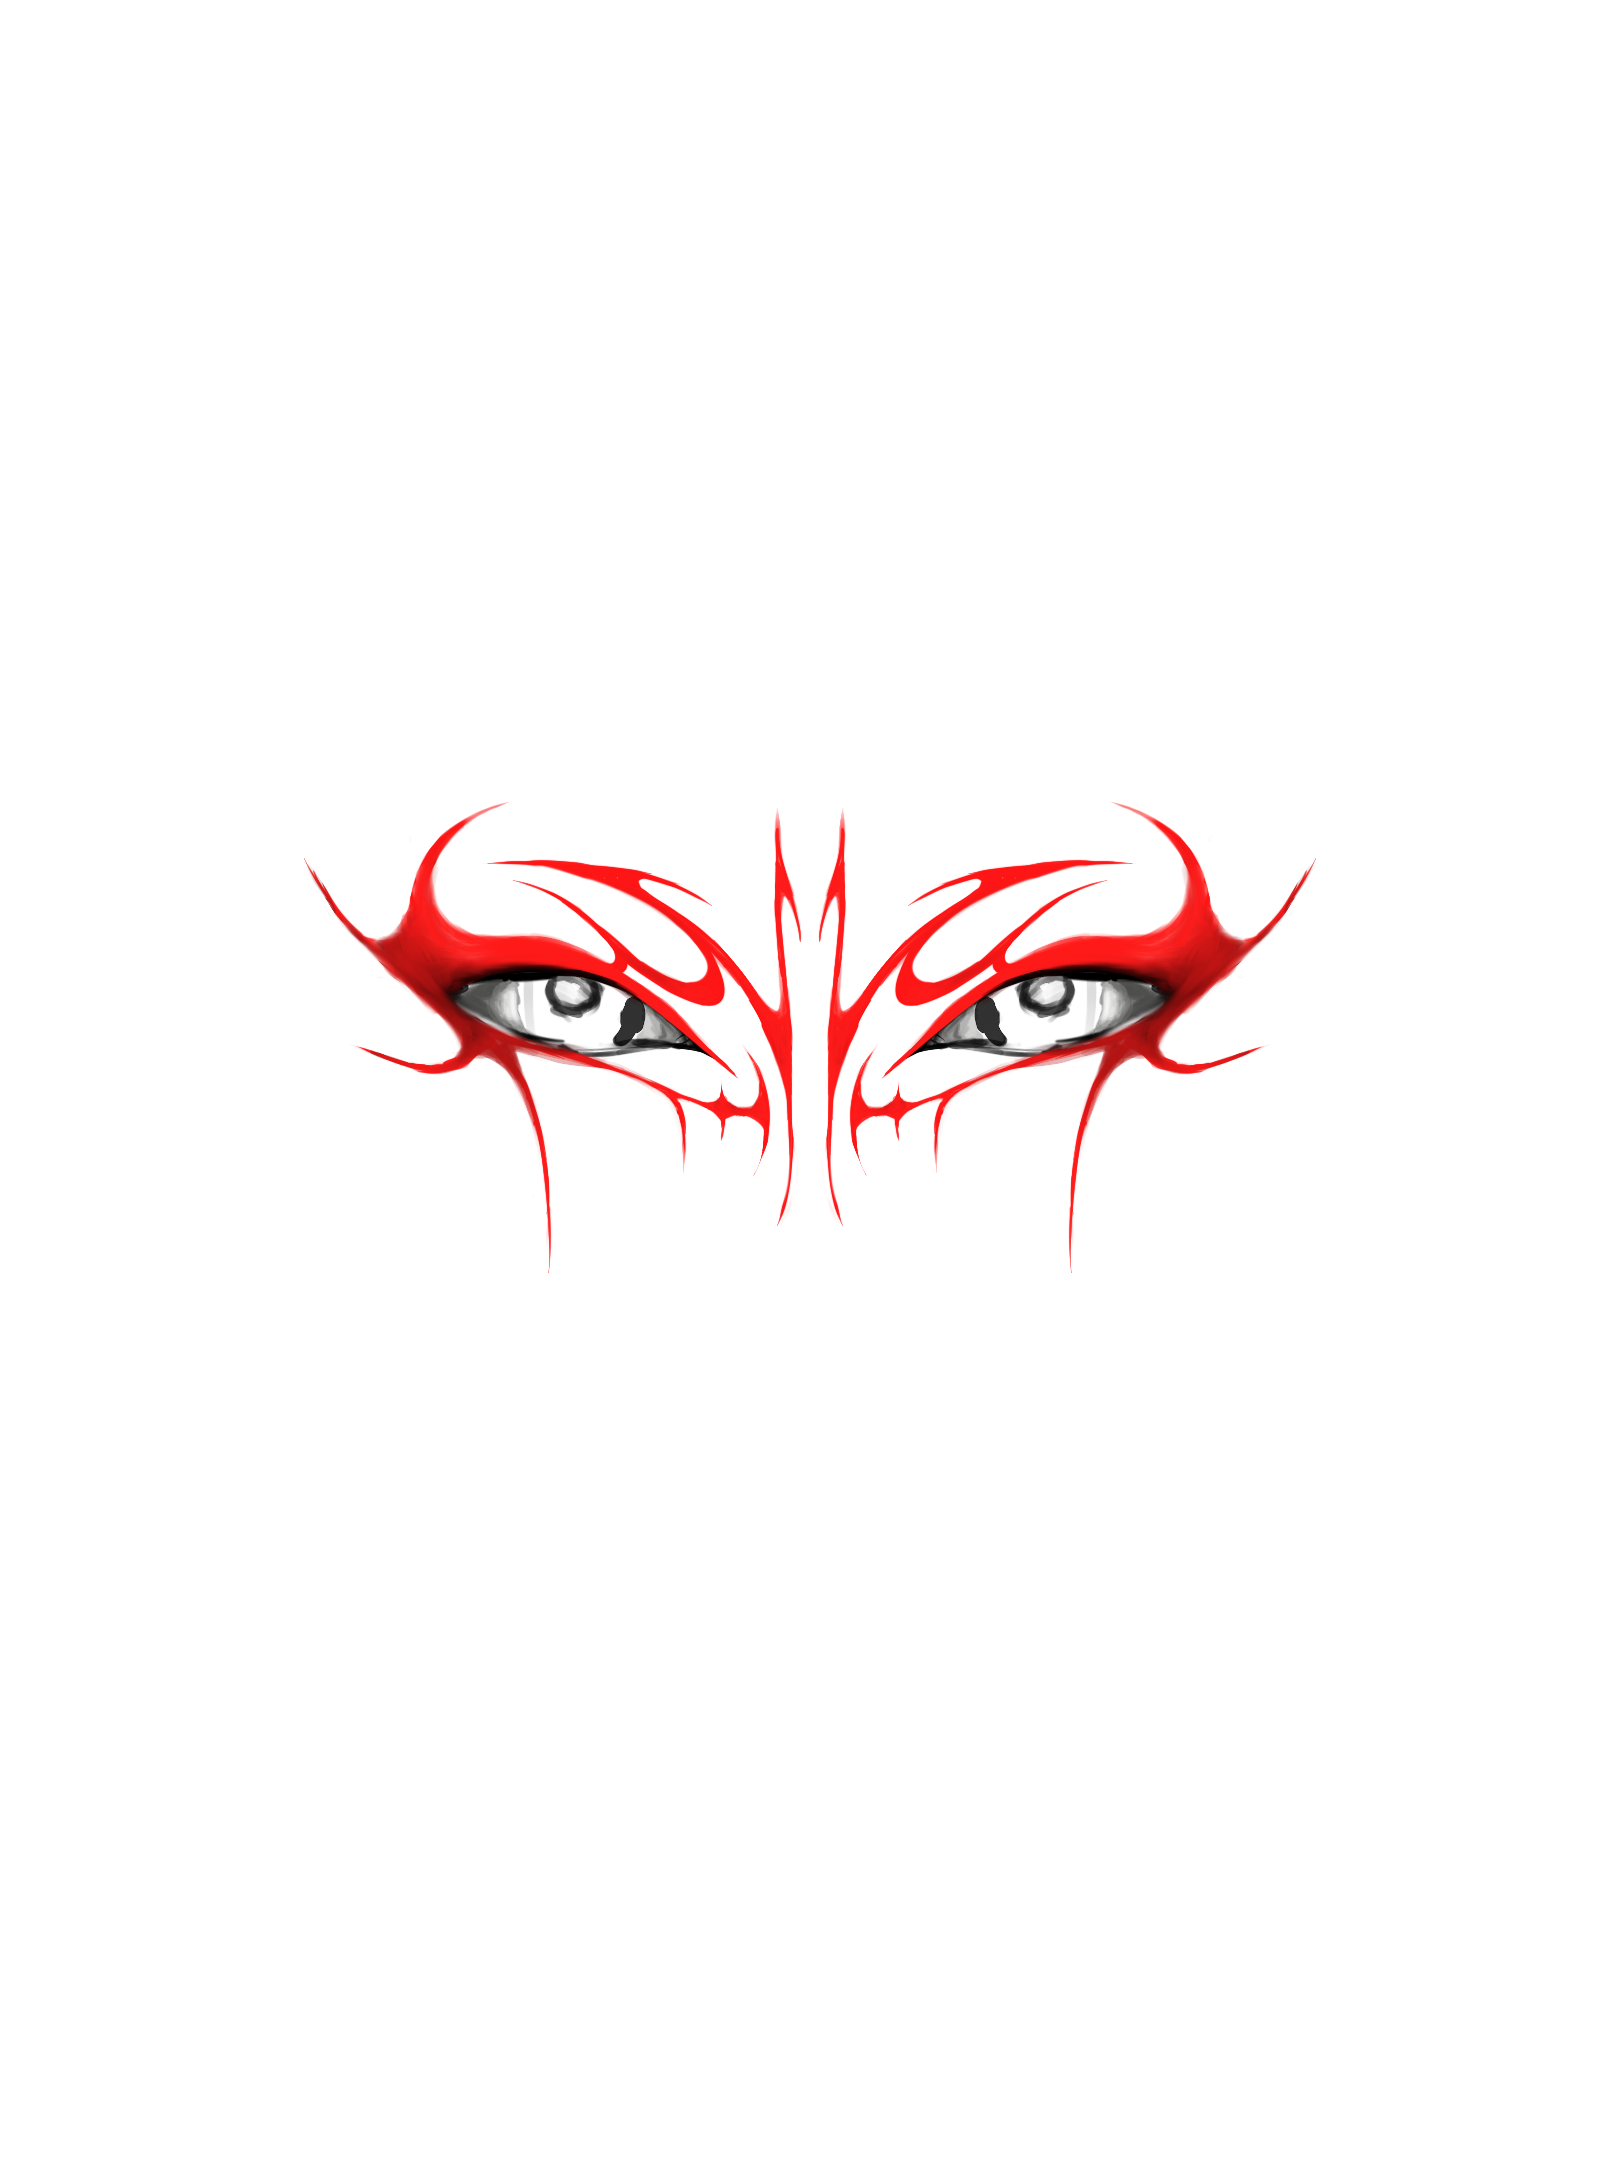
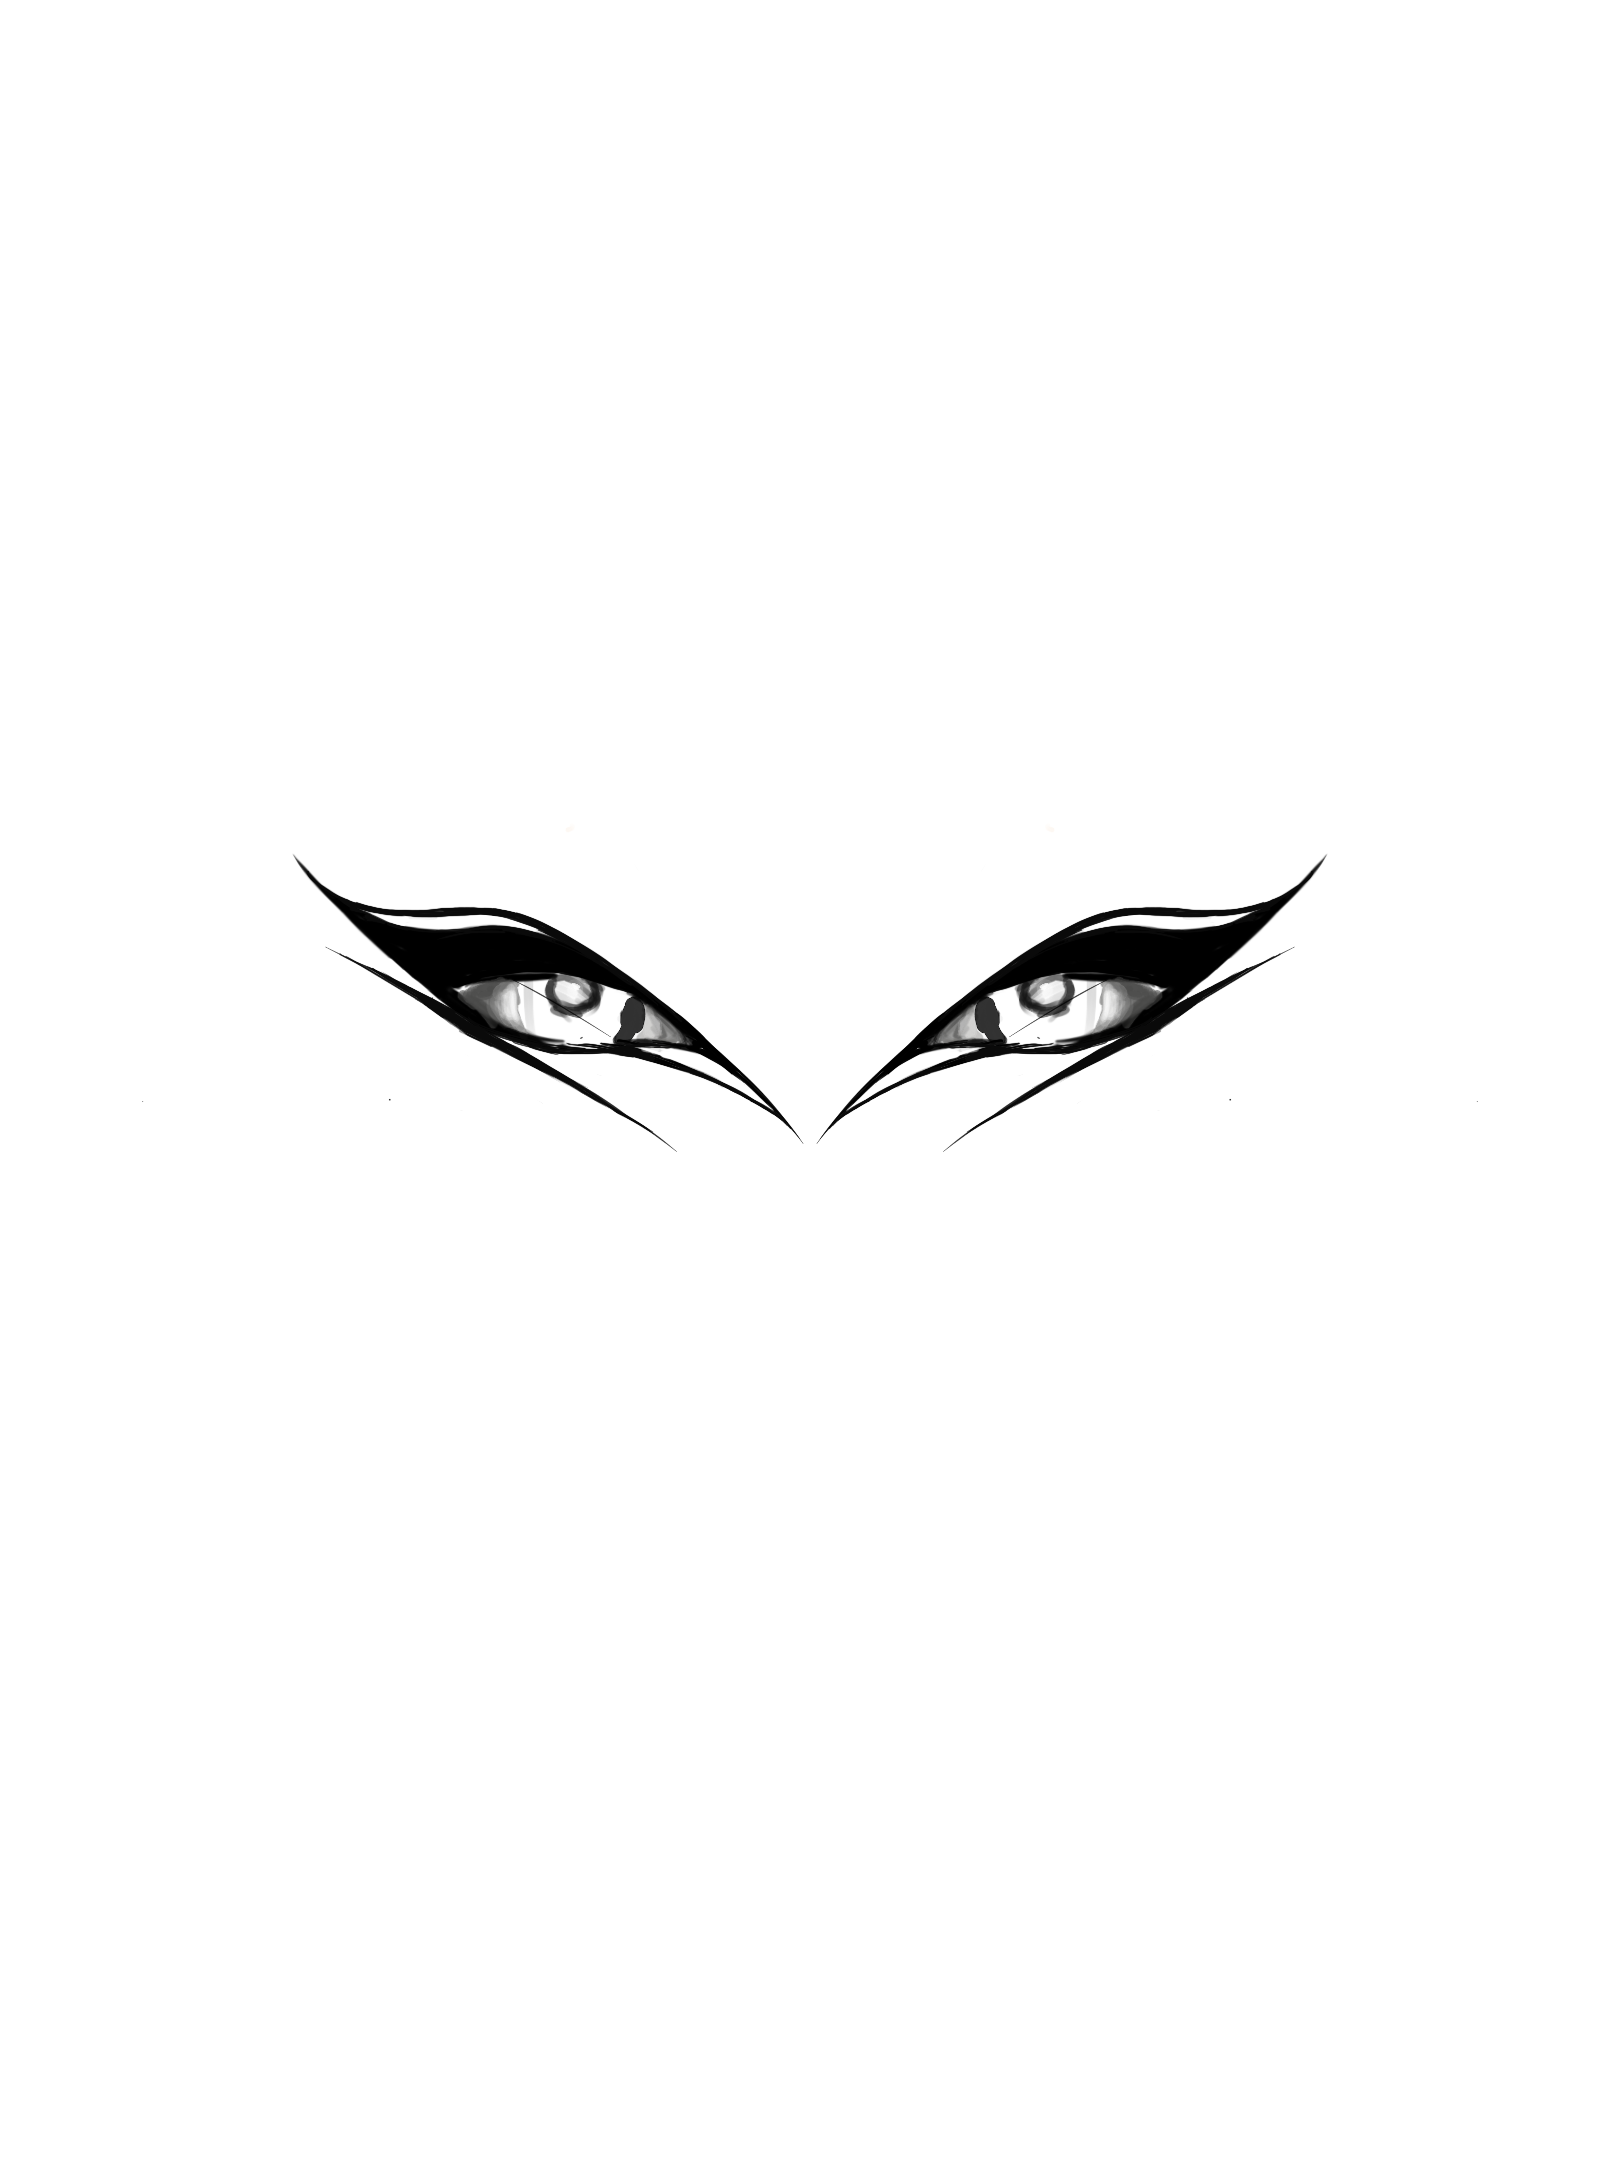
added new eyeliner

Changed region(s): [[0.1852, 0.3722, 0.8025, 0.5583]]

diff --git a/makeup-game.html b/makeup-game.html
@@ -17,14 +17,17 @@
           <div class="eyeliner-slider"><img src="eyeliner1.png" alt="" /></div>
 
           <div class="eyeliner-slider"><img src="eyeliner3.png" alt="" /></div>
+          <div class="eyeliner-slider"><img src="eyeliner4.png" alt="" /></div>
 
-          <div class="eyeliner-slider"><img src="" alt="" /></div>
+          <div class="eyeliner-slider"><img src="#" alt="" /></div>
 
           <a class="prev linerprev" onclick="plusSlides(-1, 1)">&#10094;</a>
           <a class="next linernext" onclick="plusSlides(1, 1)">&#10095;</a>
 
-          <div class="eyelinerred-slider"><img src="eyeliner4.png" alt="" /></div>
-          <div class="eyelinerred-slider"><img src="" alt="" /></div>
+          <div class="eyelinerred-slider"><img src="eyeliner5.png" alt="" /></div>
+          <div class="eyelinerred-slider"><img src="eyeliner6.png" alt="" /></div>
+
+          <div class="eyelinerred-slider"><img src="#" alt="" /></div>
 
           <a class="prev linerredprev" onclick="plusSlides(-1, 2)">&#10094;</a>
           <a class="next linerrednext" onclick="plusSlides(1, 2)">&#10095;</a>
@@ -49,8 +52,8 @@
 
       <div class="makeup-menu">
         <div
-          id="itemA"
-          class="draggable itemA"
+          id="blackeyeliner"
+          class="draggable blackeyeliner"
           style="background-color: red"
         ></div>
       </div>

diff --git a/main.js b/main.js
@@ -1,4 +1,4 @@
-const itemAposition = { x: 0, y: 0 };
+const blackeyelinerposition = { x: 0, y: 0 };
 
 let slideIndex = [1, 1, 1];
 let slideId = ["hair-slider","eyeliner-slider", "eyelinerred-slider"];
@@ -26,25 +26,26 @@ function showSlides(n, no) {
   x[slideIndex[no] - 1].style.display = "inline";
 }
 
-//itemA
-interact('.itemA').draggable({
+//blackeyeliner
+interact('.blackeyeliner').draggable({
   listeners: {
     start(event) {
       console.log(event.type, event.target);
     },
     move (event) {
-      // Update he posittion of itemA
-      itemAposition.x += event.dx;
-      itemAposition.y += event.dy;
+      // Update he posittion of blackeyeliner
+      blackeyeliner.x += event.dx;
+      blackeyeliner.y += event.dy;
 
-      // Apply the transformation to move itemA
-      event.target.style.transform = `translate(${itemAposition.x}px, ${itemAposition.y}px)`;
+      // Apply the transformation to move blackeyeliner
+      event.target.style.transform = `translate(${blackeyeliner.x}px, ${blackeyeliner.y}px)`;
     },
     end(event) {
       console.log(event.type, event.target);
     }
   }
 });
+
 //dropzone
 
 interact(".dropzone").dropzone({

diff --git a/style.css b/style.css
@@ -1,6 +1,6 @@
 
 .container{
-  width: 100vw;
+  width: 100%vw;
 }
 
 /* Slideshow container */
@@ -19,8 +19,7 @@
 
 .face-canvas{
   position: relative;
-    margin-top: 140px;
-    margin-left: 50px;
+    margin-left: 1%;
     
 }
 
@@ -29,7 +28,7 @@
   cursor: pointer;
   position: absolute;
   width: auto;
- top: 10px;
+  top: 175px;
   padding: 16px;
   margin-top: -22px;
   color: black;
@@ -44,7 +43,7 @@
   cursor: pointer;
   position: absolute;
   width: auto;
- top: 10px;
+ top: 300px;
   padding: 16px;
   margin-top: -22px;
   color: black;
@@ -59,7 +58,7 @@
   cursor: pointer;
   position: absolute;
   width: auto;
- top: 20px;
+ top: 300px;
   padding: 16px;
   margin-top: -22px;
   color: black;
@@ -154,7 +153,7 @@ top: -50%;
     position: relative;
   }
 
-.itemA{
+.blackeyeliner{
     width: 50px;
     height: 50px;
     z-index: 1;

diff --git a/index.html b/index.html
@@ -10,3 +10,5 @@
     <title>virtual girl</title>
   </head>
 </html>
+
+
